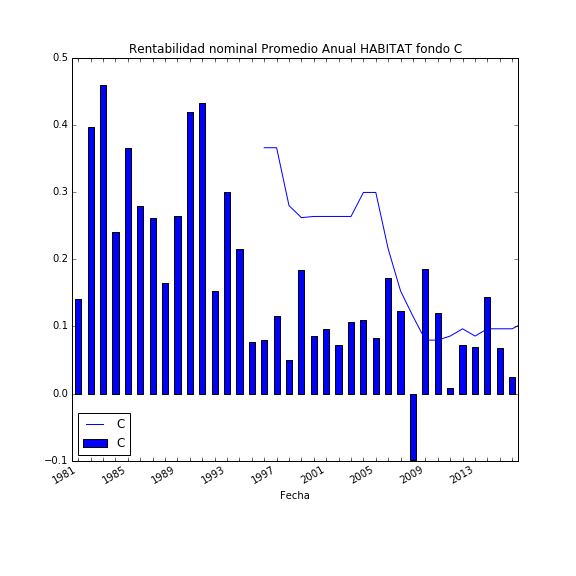
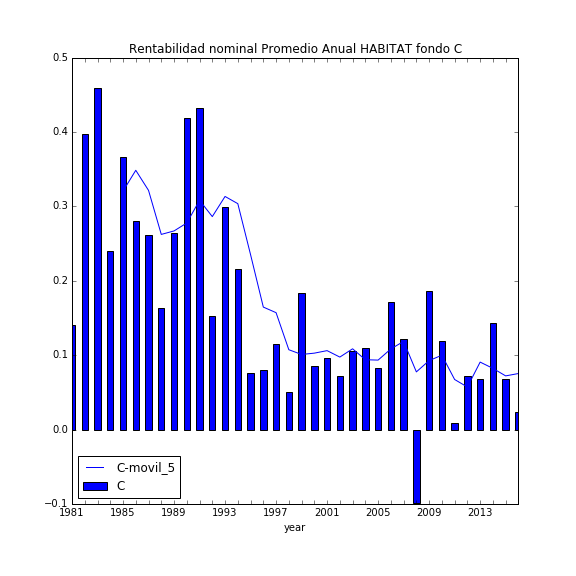
Fixed xticks and added PROVIDA

diff --git a/analysis.py b/analysis.py
@@ -1,6 +1,7 @@
 import pandas as pd
 import matplotlib.pyplot as plt
 import matplotlib.ticker as ticker
+import matplotlib.dates as mdates
 from datetime import datetime
 
 karg_csv = dict(delimiter=';', decimal=',', index_col=0, parse_dates=True)
@@ -8,7 +9,8 @@ karg_csv = dict(delimiter=';', decimal=',', index_col=0, parse_dates=True)
 url = 'https://raw.githubusercontent.com/collabmarket/data_bcentral/master/data/uf.csv'
 uf = pd.read_csv(url, **karg_csv)
 
-afps = ['CUPRUM','HABITAT','PLANVITAL']
+afps = ['CUPRUM', 'HABITAT', 'PLANVITAL', 'PROVIDA']
+fondos = ['A', 'C', 'E']
 
 for afp_name in afps:
     
@@ -16,31 +18,35 @@ for afp_name in afps:
     afp = pd.read_csv(filename, **karg_csv)
     afp_uf = afp.div(uf.Valor,axis=0)
     
-    for fondo in ['A','C','E']:
-        for tipo,aux in zip(['nominal','real'],[afp, afp_uf]):
+    for fondo in fondos:
+        for tipo,vcf in zip(['nominal','real'],[afp, afp_uf]):
             
             # Grafico rentabilidad, rentabilidad acumulada y valor cuota promedio periodo
             # Periodos : W week, , M month, Q quarter, A year
             # Ultimo valor del periodo
-            df = aux.loc['1981':,[fondo]].resample('M').last()
-            # Suma rentabilidad mensual rentabilidad promedio anual
+            df = vcf.loc['1981':,[fondo]].resample('M').last()
+            # Rentabilidad promedio anual = suma rentabilidades mensuales
             aux = df.pct_change(1).resample('A').sum()
+            # Media movil 5 agnos
+            aux['%s-movil_5'%fondo] = aux.rolling(window=5).mean()
             # Grafo rentabilidad
             fig, ax = plt.subplots(figsize=(8,8))
-            # Media movil 5 agnos
-            aux.rolling(window=5,center=False).median().plot(ax=ax)
             # Rentabilidad anual
-            aux.plot(title='Rentabilidad %s Promedio Anual %s fondo %s'%(tipo,afp_name,fondo), kind='bar', ax=ax)
+            titulo = 'Rentabilidad %s Promedio Anual %s fondo %s'%(tipo,afp_name,fondo)
+            
+            aux['year'] = aux.index.strftime('%Y')
+            aux.plot(x='year', y=0,title=titulo, kind='bar', ax=ax)
+            aux.plot(x='year', y=1, ax=ax)
             # Fix date format on bar plot with pandas
             # Make most of the ticklabels empty so the labels don't get too crowded
-            ticklabels = ['']*len(aux.index)
+            ticklabels = ['']*len(aux.year.values)
             bbox = ax.get_window_extent().transformed(fig.dpi_scale_trans.inverted())
             width, height = bbox.width, bbox.height
-            step = int(len(aux.index)/(width*1.3))
+            step = int(len(aux.year.values)/(width*1.3))
             # Every step ticklable shows the month, day and year
-            ticklabels[::step] = [item.strftime('%Y') for item in aux.index[::step]]
-            ax.xaxis.set_major_formatter(ticker.FixedFormatter(ticklabels))
-            plt.gcf().autofmt_xdate()
+            ticklabels[::step] = aux.year.values[::step]
+            ax.xaxis.set_ticklabels(ticklabels)
             plt.legend(loc=3)
             plt.savefig('rent-%s-%s-%s.png'%(tipo,afp_name,fondo))
+            plt.show()
 
